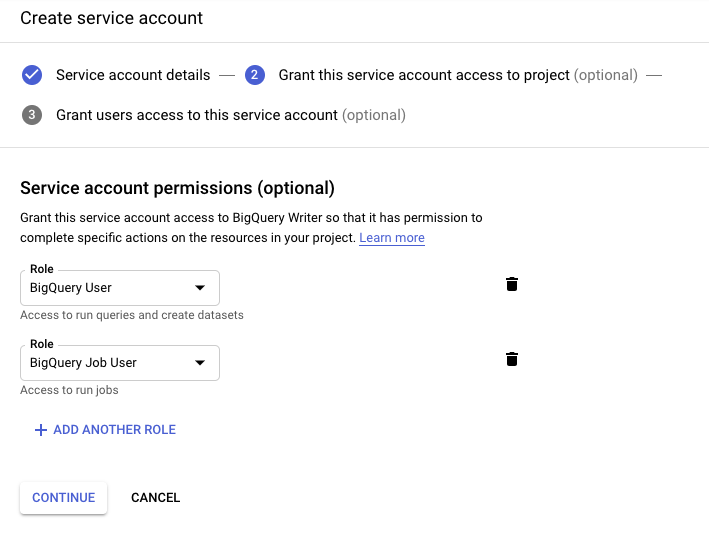
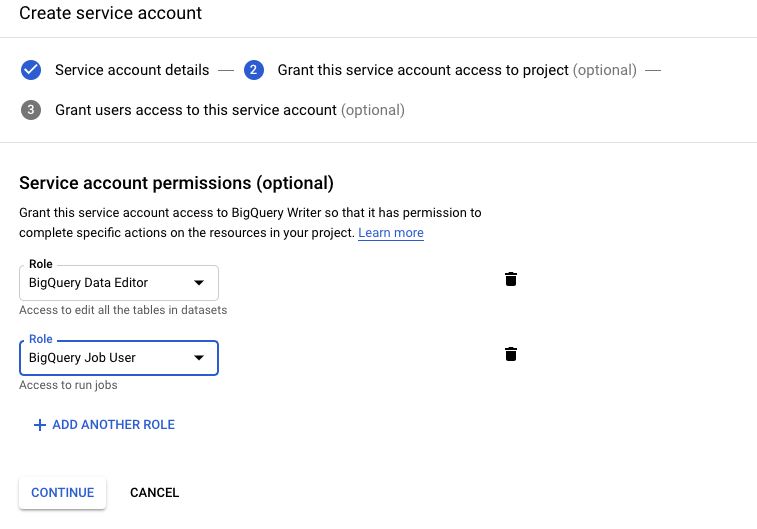
fix: roles setup

diff --git a/writers/database/bigquery/index.md b/writers/database/bigquery/index.md
@@ -26,7 +26,7 @@ To access and write to your BigQuery dataset you need to set up a Google Service
 {: .image-popup}
 ![Screenshot - Create service account](/writers/database/bigquery/serviceaccount1.png)
 
-- In the next step add `BigQuery User` and `BigQuery Job User` roles
+- In the next step add `BigQuery Data Editor` and `BigQuery Job User` roles
 
 {: .image-popup}
 ![Screenshot - Create service account](/writers/database/bigquery/serviceaccount2.png)
